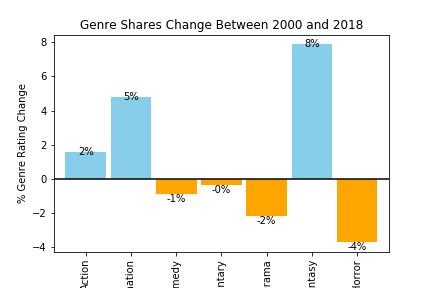
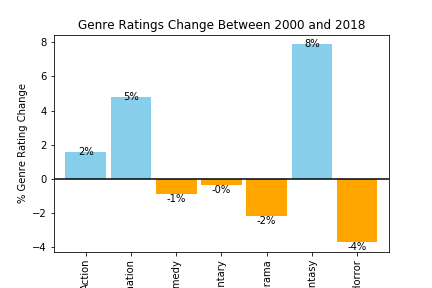
Update readme

Changed region(s): [[0.1806, 0.0625, 0.8426, 0.125]]

diff --git a/README.md b/README.md
@@ -1,10 +1,10 @@
 # Have Streaming Services Killed Cinema?
 
-## Project Description
+## Introduction
 
 Every month there seem to be less movies showing in theatres that are worth the time and effort to view. Genres have shifted to heavy handed drama and popcorn flicks, and overall quality has declined (based on viewer and critic ratings).This project is interested in the changes in aggregate quality of movies available across all platforms and if it is declining like expected, what is influencing the decline. Of particular interest is the rise in streaming services like Netflix and Hulu.
 
-## Research Question to Answer
+### Hypothesis
 
 Primary Hypothesis
 If the rise in streaming services has contributed to a decrease in cinema quality then mean movie ratings before the year 2011 will be higher than the mean movie ratings after the year 2011.
@@ -13,45 +13,92 @@ Primary Null Hypothesis
 If the rise in streaming services has not contributed to a decrease in cinema quality then mean movie ratings before the year 2011 will not be higher than the mean movie ratings after the year 2011.
 
 H0 = past mean ratings > current mean ratings
+
 H1 = past mean ratings <= current mean ratings
+   
+## Description of Data
 
-Secondary Hypothesis
-H0 = 
+The bulk of the data used for this project was retrieved from the OMDB API through a series of calls.
+http://www.omdbapi.com/
 
-1. Is the increase in streaming services and offerings associated with a decrease in overall Cinema quality?
-    a. Has movie quality declined since the year 2000? (this date is flexible based on available data)
-    b. Has revenue for brick and mortar Theatres declined in the same time period?
-        i. Is the decrease in quality and decrease in revenue (if found to be occurring) proportionate?
-    c. Has production of tv series increased in the same time period?
-        i. How does the quality of tv series compare to quality of movies. (based on ratings)
-    
-## Data sets to be Used
+The imdb titles in the first call was taken from a list of movies posted on kaggle.com and formatted before being placed in a list and called with a for loop that built a dataframe from the data retreived from the API. After closer examination of the dataset it was it was decided that the data still desired included details on tv series and movies from the year 2018 as the kaggle csv included neither. These titles were downloaded from imdb as a tab separated and gzipped file.(tsv.gz) The gzip and shutil libraries were used to unzip the files and save as csv files so they could be read into the notebook as a dataframe. The imdb file with IDs and votes was combined to complete the list for the second and third API calls.
 
-A series of API calls from OMBD was used to pull historical movie ratings and produced the below data points:
+The OMDB data was cleaned by correcting the formats of both the rotten tomatoes and imdb ratings so they were consistent for easy comparison.
 
-Title: Title of movie or series, the localized title
-Year: represents the release year of a title
-Released: represents the release date of a title
-Runtime: primary runtime of the title, in min or hr and min
-Genre: There are a total of 55 unique genres included in the raw data, between 1 and 10 for each title
-Director: director(s) of the given title
-Writer: writer(s) of the given title
-Actors: Lead actors
-Plot: Short synopsis of plot
-Country: Country of origin
-Awards: summary of awards if any
-RT_Rating: rotten tomatoes rating
-Metascore Metascore rating
-imdbRating: weighted average of all the individual user ratings
-imdbVotes: number of votes the title has received
-imdbID: a tconst, an alphanumeric unique identifier of the title
-Type: the type/format of the title (e.g. movie, short, tvseries, tvepisode, video, etc)
-BoxOffice: Box Office earnings
-Production: Production company associated with title
+Because most movies had multiple genres stored as a comma seperated string, some work needed to be done to narrow down what was included for analysis purposes. Each row was first split and expanded to have each genre on its own column and run through a loop to collect a list of unique genres. The resulting list of genres was narrowed from 23 to 7 to make a succinct analysis possible.
+
+In addition to the above data, aggregated data was retrieved from several sources to aid in answering additional questions that arose during the course of analysis.
+
+For revenue analysis:
+
+Box Office Revenue Source: https://www.the-numbers.com/market/
+
+US Population Source: https://www.multpl.com/united-states-population/table/by-year
+
+For accurate movie releases (North America):
+
+https://www.statista.com/statistics/187122/movie-releases-in-north-america-since-2001/
+
+
+See applicable data dictionary for more information on the datasets. (located in cleaned data folder)
 
 ### Limitations of the data
 
+The OMDB dataset presented several challenges. The rotten tomatoes ratings were received in an inconsistent format and required a unique solution though in the end it was clean and usable. The Metacritic ratings and box office series were both missing enough values that they were was not usable for analysis.
+
+Genres
+
+Lack of movie count after 2014
+
+Box office values mostly missing
+        
+## Analysis/Methodology
+
+### Have ratings changed over time?
+
+To answer the first question the data was grouped by year and plotted against the mean imdb ratings. The vertical lines represent the approximate years that Netflix began to offer streaming and released their first original series.
+
+![ratingsovertime](Output/ratingsovertime.png)
 
 
+Ratings were further broken out to determine if any trends could be observed. This was achieved by grouping the cleaned genre data by genre and year and plotting against mean imdb ratings after some minor data munging using unstack and list comprehension to rename the columns
 
+![genreratingsovertime](Output/genreratingsovertime.png)
+
+To confirm if there were any large changes in genre ratings, the percentage change between 2000 and 2018 was calculated and visualized with a bar graph.
+
+![genreratingchangebar](Output/genreratingchangebar.png)
+
+
+### Has movie and TV production changed over the same time period?
+
+TV series data was next grouped by year and year and tv count plotted to show change over time.
+
+![tvproducedovertime](Output/tvproducedovertime.png)
+
+Because of the limitations in the OMDB dataset and to ensure accuracy, an pre-aggregated statistic was used to show the Movie releases over the same period.
+
+![moviesproducedovertime](Output/moviesproducedovertime.png)
+
+The genre dataset was grouped by genre and year and divided by total per year to produce a change overtime.
+
+![genresharesovertime](Output/genresharesovertime.png)
+
+The percentage change was visualized in a bar graph to check for noticeable shifts.
+
+![genresharechangebar](Output/genresharechangebar.png)
+
+### What is the trend for box office revenue over the same time period?
+
+Box office revenue can easily be visualized by plotting figures adjusted for inflation with years to produce the below line graph.
+
+![boxofficeovertime](Output/boxofficeovertime.png)
+
+To check that the line was not unduly affected by change in population, the below line graph was produced that shows the average tickets purchased per person in the US based on the tickets sold per year and the US population.
+
+![ticketssoldovertime](Output/ticketssoldovertime.png)
+
+## Results of Analysis
+
+## Conclusions
 
